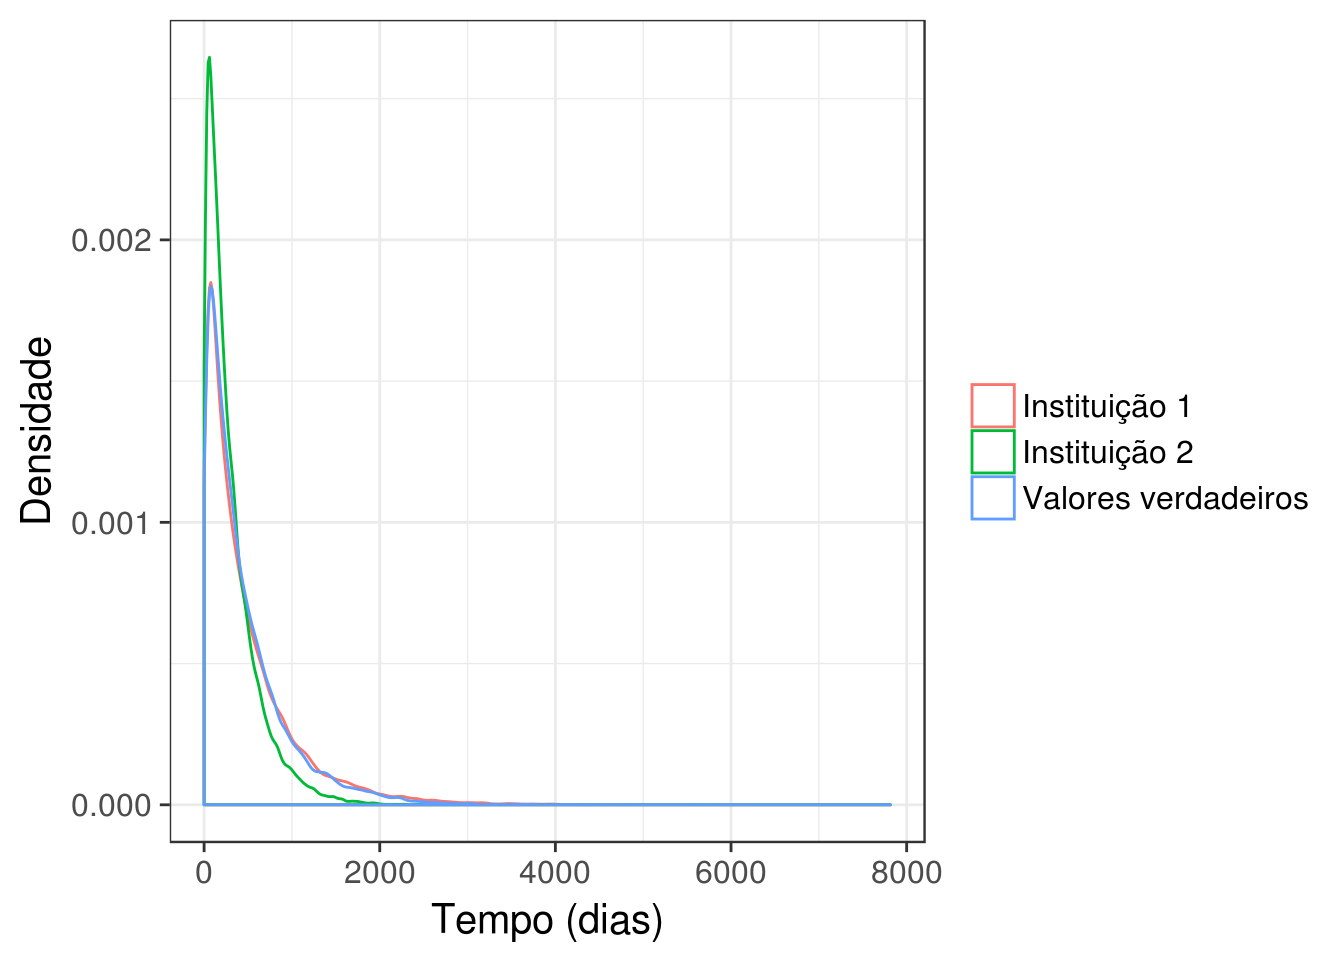
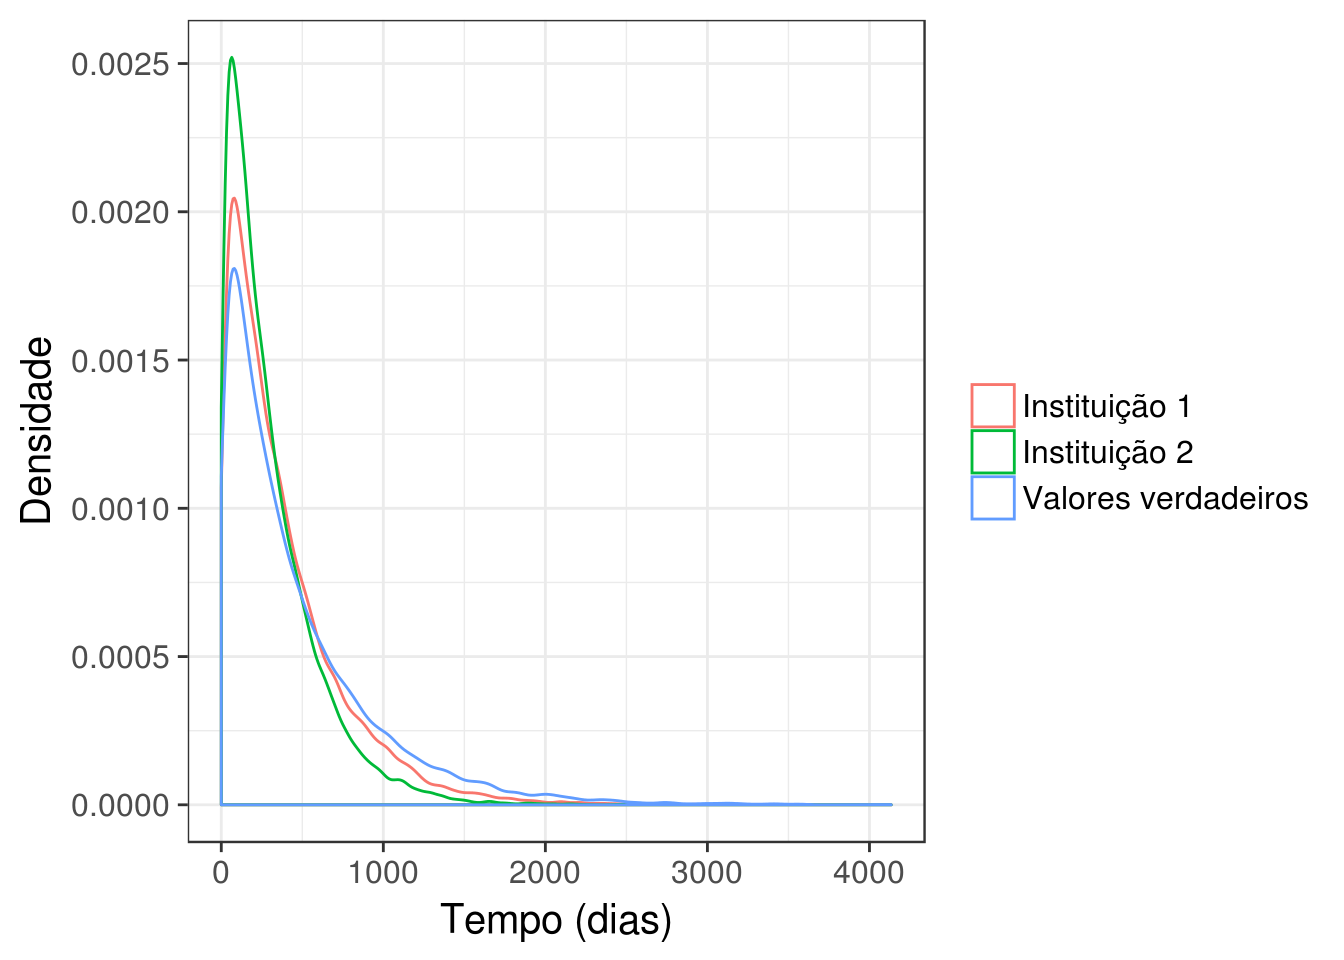
Update Site ABJ

diff --git a/blog/1/01/01/draft_1/index.html b/blog/1/01/01/draft_1/index.html
@@ -183,8 +183,8 @@
                         <div id="post-content">
 
 
-<p>Calcular a duração média de um determinado tipo de processo é um problema comum em jurimetria e isso normalmente é feito utilizando Análise de Sobrevivência<a href="#fn1" class="footnoteRef" id="fnref1"><sup>1</sup></a>. Entretanto, os textos desse assunto não costumam mencionar o fato de que as estimativas de duração produzidas por estudos retrospectivos<a href="#fn2" class="footnoteRef" id="fnref2"><sup>2</sup></a> são menores do que as estimativas produzidas por estudos prospectivos.</p>
-<p>Para ilustrar essa diferença, vamos simular um pequeno exemplo em que essa diferença torna-se evidente. Considere que desejamos avaliar um tempo de duração que possui as características abaixo:</p>
+<p>Calcular a duração média de um determinado tipo de processo é um problema comum em jurimetria e isso normalmente é feito utilizando Análise de Sobrevivência<a href="#fn1" class="footnoteRef" id="fnref1"><sup>1</sup></a>. Entretanto, os textos desse assunto não costumam mencionar o fato de que as estimativas usuais de duração média produzidas por estudos retrospectivos<a href="#fn2" class="footnoteRef" id="fnref2"><sup>2</sup></a> podem ser incorretas, ao passo que as mesmas estimativas produzidas por estudos prospectivos não.</p>
+<p>Vamos simular um pequeno exemplo em que essa diferença se torna evidente. Considere que desejamos avaliar um tempo de duração que possui as características abaixo:</p>
 <table>
 <caption><span id="tab:tab1">Table 1: </span>Medidas descritivas do tempo de duração simulado.</caption>
 <thead>
@@ -195,8 +195,8 @@
 </thead>
 <tbody>
 <tr class="odd">
-<td align="center">464.6</td>
-<td align="center">488.41</td>
+<td align="center">465.75</td>
+<td align="center">483.07</td>
 </tr>
 </tbody>
 </table>
@@ -206,8 +206,8 @@
 Figure 1: Histograma do tempo de duração simulado.
 </p>
 </div>
-<p>Agora suponha que duas instituições de pesquisa propõem estudos para medi-lo. As duas obterão um conjunto de processos, medirão as suas respectivas durações e tirarão conclusões a partir daí, sendo a diferença entre os dois estudos apenas a forma com que as amostras serão escolhidas. A primeira sugere que sejam analisados todos os processos distribuídos desde 11/12/2012, o começo dos registros disponíveis na nossa situação hipotético, até hoje 19/01/2017. Essa formulação caracteriza o estudo da instituição 1 como um estudo prospectivo. Já a segunda instituição sugere uma análise que abranja os processos terminados até hoje desde 11/12/2012, caracterizando um estudo retrospectivo. Em ambos os casos, caso sejam observados processos não terminados, as instituições concordam que eles devem ser analisados utilizando técnicas de análise de sobrevivência.</p>
-<p>Um exemplo da realização das pesquisas é descrito na figura <a href="#fig:graph2">2</a>. Cada linha representa o ciclo de vida de um dos processos sendo estudados e as cores representam a sua presença ou ausência nos planos amostrais de cada uma das instituições de pesquisa. A linha tracejada representa a data de corte para a inclusão de processos na amostra da Instituição 2. Pelo gráfico, é evidente que a instituição 2 não leva em conta nenhum processo que ainda não tenha acabado.</p>
+<p>Agora suponha que duas instituições de pesquisa propõem estudos para medir o tempo de duração descritos acima. As duas obterão um conjunto de processos, medirão as suas respectivas durações e tirarão conclusões a partir daí, sendo a diferença entre os dois estudos apenas a forma com que as amostras serão escolhidas. A primeira sugere que sejam analisados todos os processos distribuídos desde 11/12/2012, o começo dos registros disponíveis na nossa situação hipotética, até hoje 19/01/2017. Essa formulação caracteriza o estudo da instituição 1 como um estudo prospectivo. Já a segunda instituição sugere uma análise que abranja os processos terminados até hoje desde 11/12/2012, caracterizando um estudo retrospectivo. Em ambos os casos, caso sejam observados processos não terminados, as instituições concordam que eles devem ser analisados utilizando técnicas de análise de sobrevivência.</p>
+<p>Um exemplo da realização das pesquisas é descrito na figura <a href="#fig:graph2">2</a>. Cada linha representa o ciclo de vida de um dos processos sendo estudados e as cores representam a sua presença ou ausência nos planos amostrais de cada uma das instituições de pesquisa. A linha tracejada representa a data de corte para a inclusão de processos na amostra da Instituição 2. Pelo gráfico, observa-se que a instituição 2 deixa de fora os processos que ainda não acabaram.</p>
 <p>As diferenças nas estimativas obtidas está ilustrada na Tabela <a href="#tab:tab2">2</a> e na Figura <a href="#fig:graph3">3</a>. Como se vê, as médias obtidas pela instituição 2 são muito menores e, além disso, a cauda da distribuição do tempo de duração é mais leve do que a verdadeira.</p>
 <div class="figure" style="text-align: center"><span id="fig:graph2"></span>
 <img src="figures/graph2-1.png" alt="Comparação dos processos observados por cada uma das instituições." width="672" />
@@ -227,13 +227,13 @@ Figure 2: Comparação dos processos observados por cada uma das instituições.
 <tbody>
 <tr class="odd">
 <td align="left">Instituição 1</td>
-<td align="center">486.48</td>
-<td align="center">666.44</td>
+<td align="center">379.40</td>
+<td align="center">324.42</td>
 </tr>
 <tr class="even">
 <td align="left">Instituição 2</td>
-<td align="center">294.31</td>
-<td align="center">295.37</td>
+<td align="center">294.56</td>
+<td align="center">250.72</td>
 </tr>
 <tr class="odd">
 <td align="left">Valores reais</td>
@@ -248,7 +248,7 @@ Figure 2: Comparação dos processos observados por cada uma das instituições.
 Figure 3: Curva de sobrevivência dos tempos acumulados gastos em decisões e despachos (dias).
 </p>
 </div>
-<p>Evidentemente essa simulação não busca sugerir que estudos retrospectivos de tempo de duração de processos judiciais são inadequados. Muitas vezes, essa é a única ferramenta disponível e factível em tempo hábil da qual o jurimetrista dispõe e fornece sim informação relevante que pode ser utilizada em prognósticos. Na verdade, nossa argumentação é um apelo para que se analise os resultados de pesquisa prestando atenção na metodologia de pesquisa, já que o produto de um estudo retrospectivo pode ser interpretado corretamente como um limitante inferior para uma determinada quantidade de interesse.</p>
+<p>Evidentemente essa simulação não busca sugerir que estudos retrospectivos de tempo de duração de processos judiciais são inadequados. Muitas vezes, essa é a única ferramenta disponível em tempo hábil. Na verdade, nossa argumentação é um apelo para que se analise os resultados de pesquisa prestando atenção na metodologia, já que o produto de um estudo retrospectivo pode ser interpretado corretamente como um limitante inferior para uma determinada quantidade de interesse.</p>
 <div class="footnotes">
 <hr />
 <ol>

diff --git a/blog/index.html b/blog/index.html
@@ -449,8 +449,8 @@ We&rsquo;ll start with creating a new site with a very basic template.</p>
                                             <a href="/blog/1/01/01/draft_1/"><i class="fa fa-calendar-o"></i> January 1, 0001</a>
                                         </p>
                                     </div>
-                                    <p class="intro">Calcular a duração média de um determinado tipo de processo é um problema comum em jurimetria e isso normalmente é feito utilizando Análise de Sobrevivência1. Entretanto, os textos desse assunto não costumam mencionar o fato de que as estimativas de duração produzidas por estudos retrospectivos2 são menores do que as estimativas produzidas por estudos prospectivos.
-Para ilustrar essa diferença, vamos simular um pequeno exemplo em que essa diferença torna-se evidente. Considere que desejamos avaliar um tempo de duração que possui as características abaixo:</p>
+                                    <p class="intro">Calcular a duração média de um determinado tipo de processo é um problema comum em jurimetria e isso normalmente é feito utilizando Análise de Sobrevivência1. Entretanto, os textos desse assunto não costumam mencionar o fato de que as estimativas usuais de duração média produzidas por estudos retrospectivos2 podem ser incorretas, ao passo que as mesmas estimativas produzidas por estudos prospectivos não.
+Vamos simular um pequeno exemplo em que essa diferença se torna evidente.</p>
                                     <p class="read-more"><a href="/blog/1/01/01/draft_1/" class="btn btn-template-main">Continue reading</a>
                                     </p>
                                 </div>
